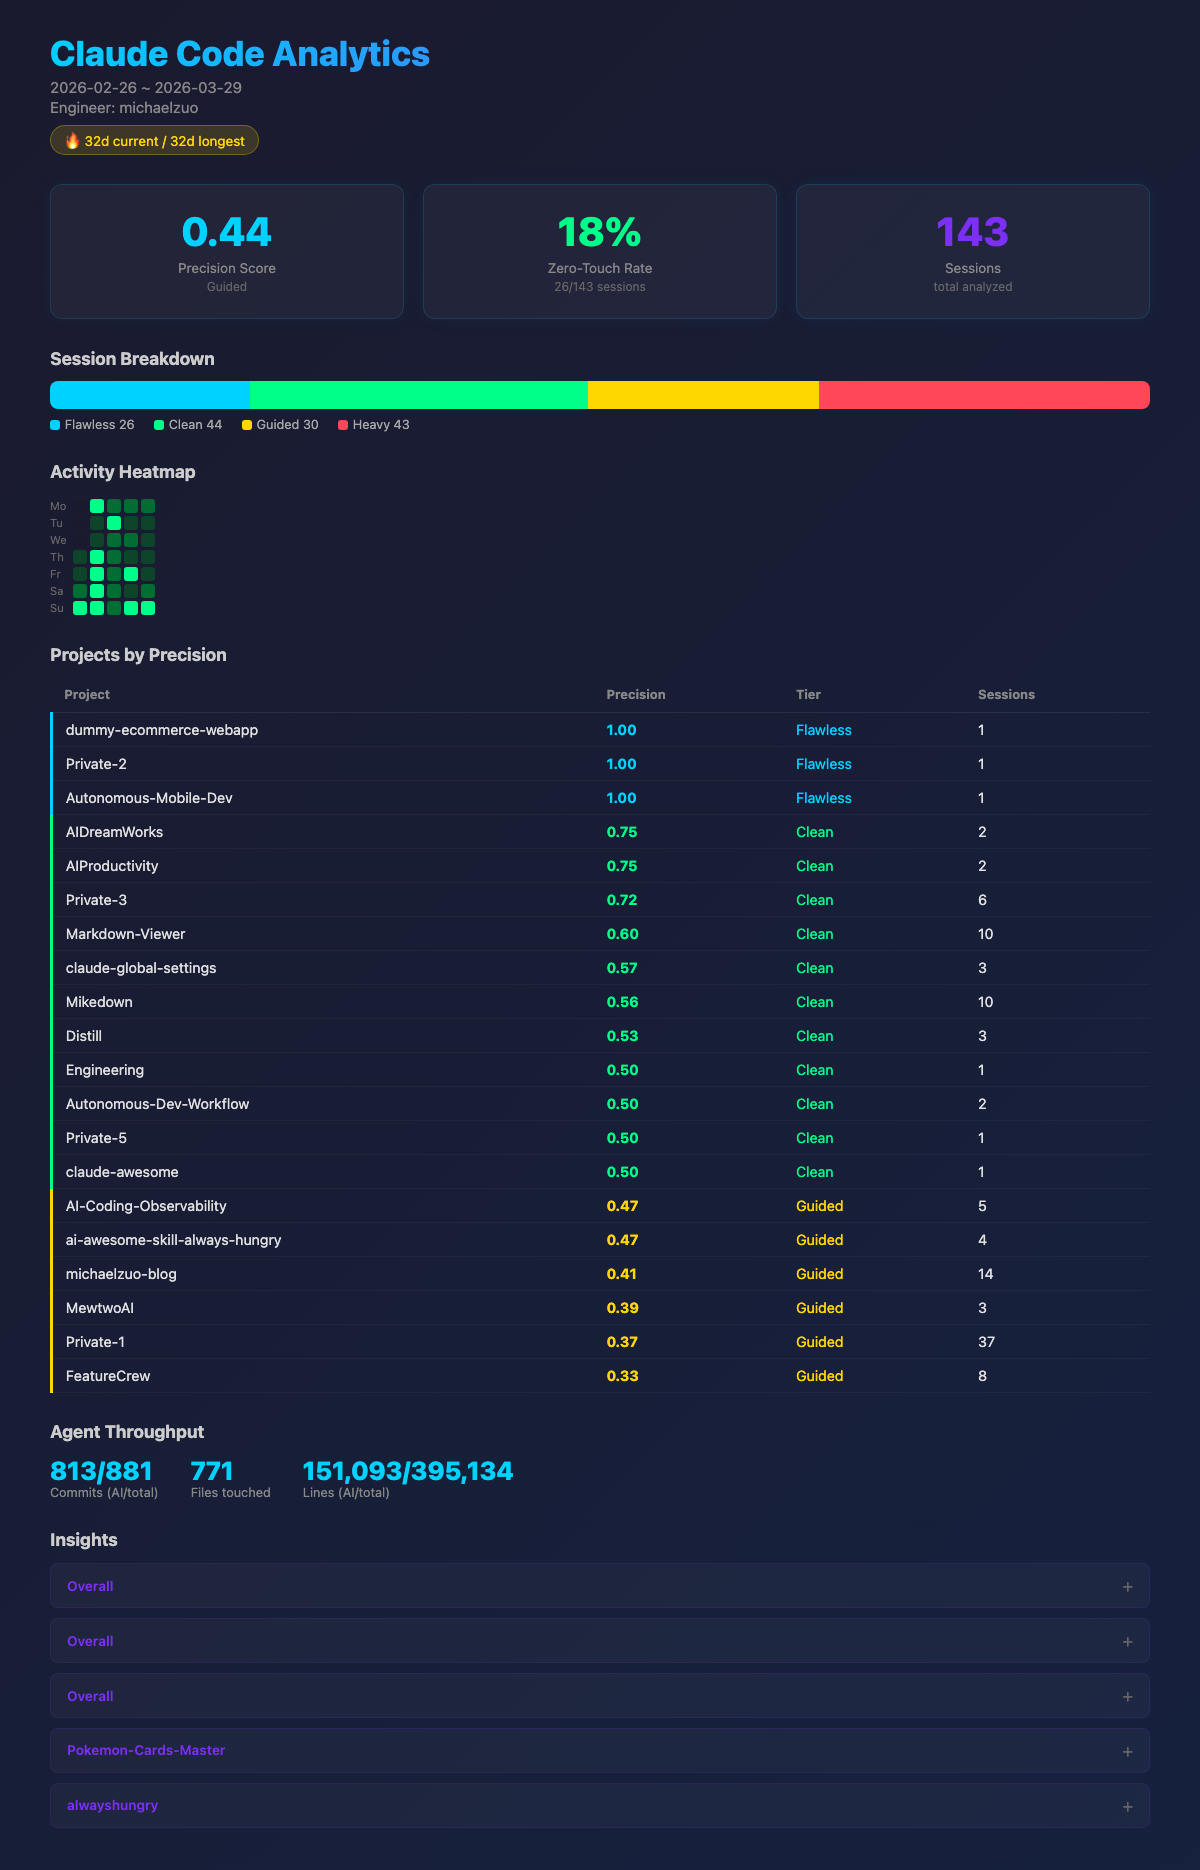
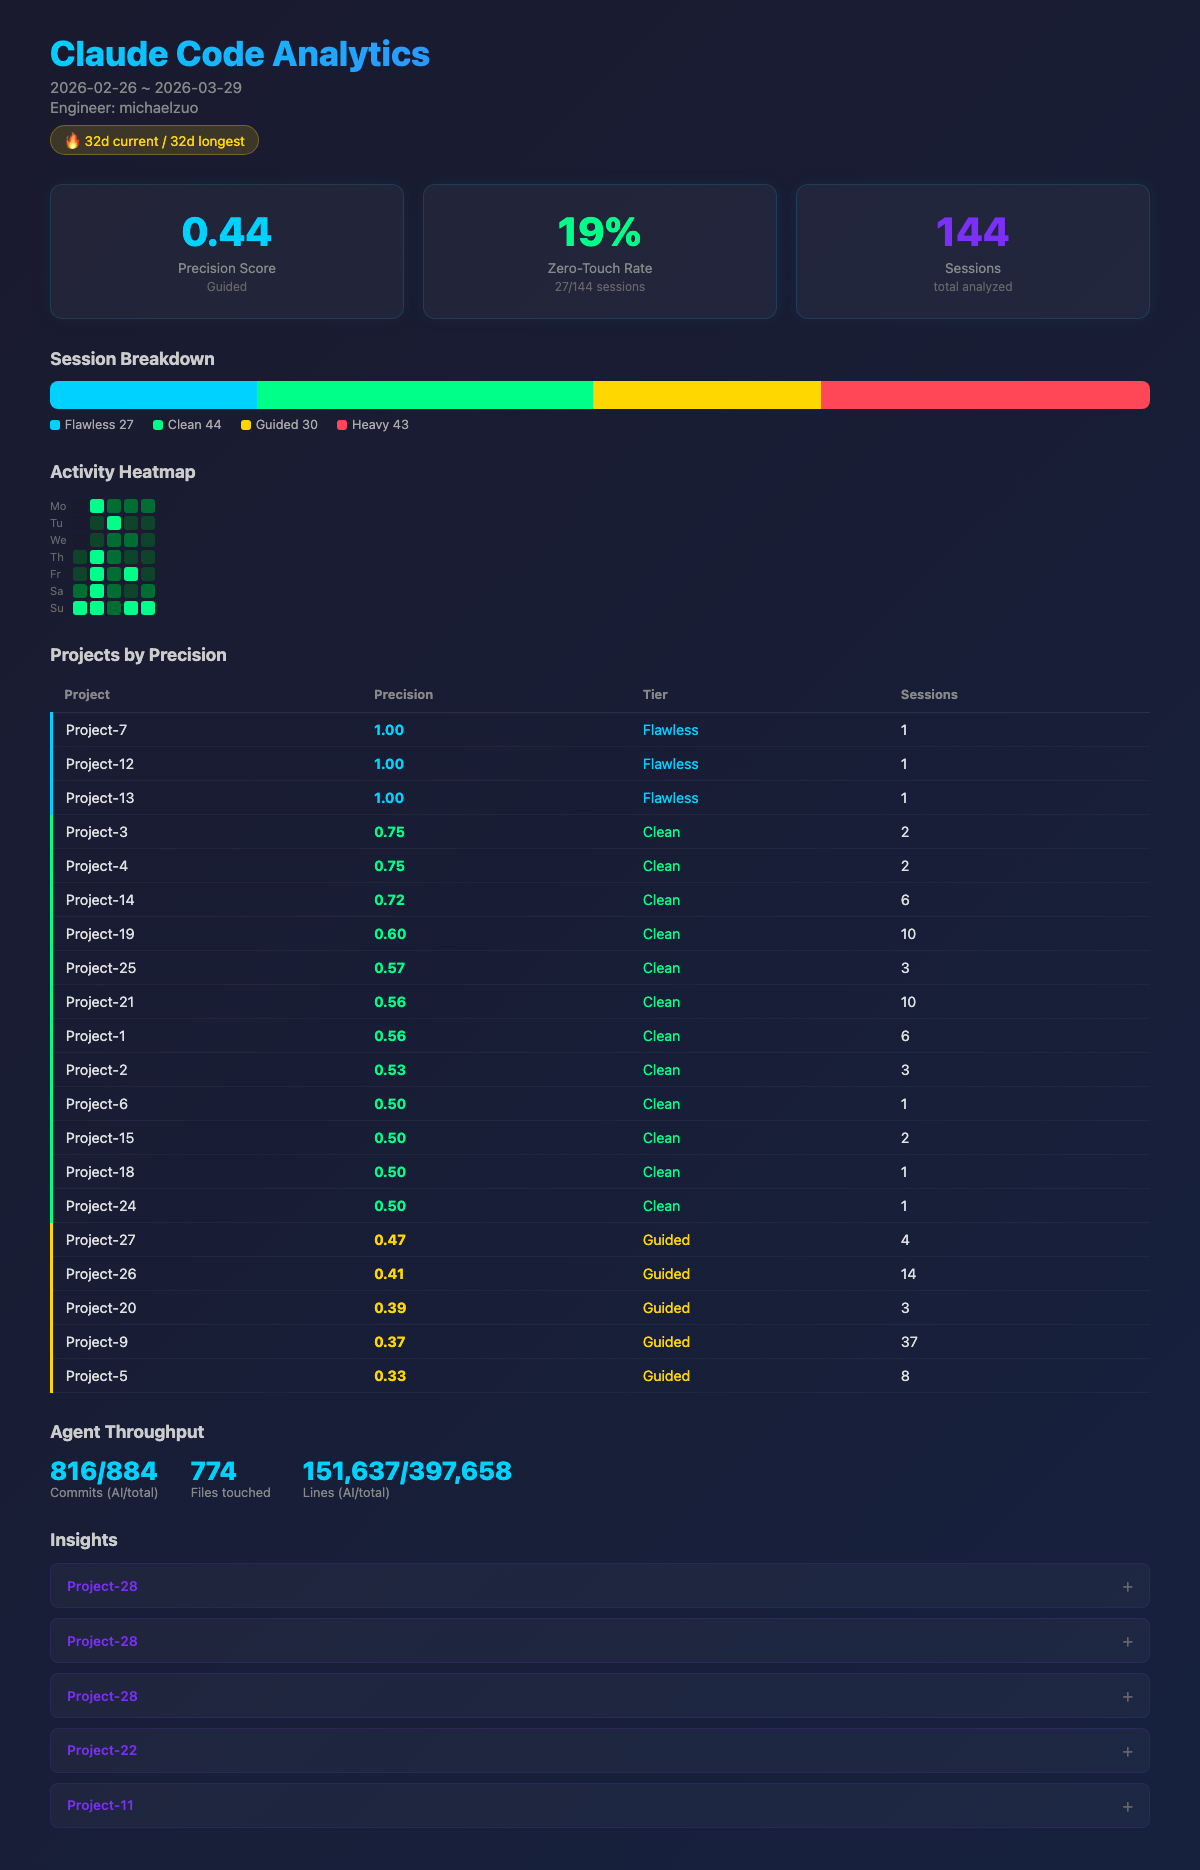
Add redact_all mode and mask all project names in dashboard screenshot

diff --git a/src/claude_analytics/privacy.py b/src/claude_analytics/privacy.py
@@ -7,7 +7,8 @@ Configurable via ~/.claude-analytics/privacy.json:
 {
     "private_patterns": ["stock", "portfolio", ...],  // extra patterns
     "private_projects": ["MyBrokerApp"],               // exact project names
-    "show_all": false                                   // set true to disable redaction
+    "show_all": false,                                  // set true to disable redaction
+    "redact_all": false                                 // set true to mask ALL project names
 }
 """
 
@@ -86,17 +87,24 @@ class ProjectRedactor:
     def show_all(self) -> bool:
         return self._config.get("show_all", False)
 
+    @property
+    def redact_all(self) -> bool:
+        return self._config.get("redact_all", False)
+
     def redact(self, project_name: str) -> str:
         """Return the redacted name if private, or the original name if safe."""
         if self.show_all:
             return project_name
 
-        if not is_private_project(project_name, self._config):
+        should_redact = self.redact_all or is_private_project(
+            project_name, self._config
+        )
+        if not should_redact:
             return project_name
 
         if project_name not in self._mapping:
             self._counter += 1
-            self._mapping[project_name] = f"Private-{self._counter}"
+            self._mapping[project_name] = f"Project-{self._counter}"
 
         return self._mapping[project_name]
 
